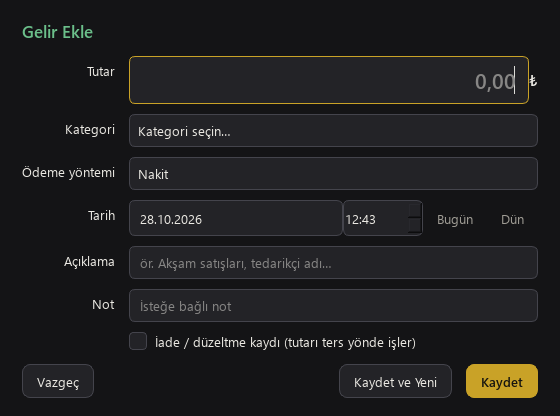
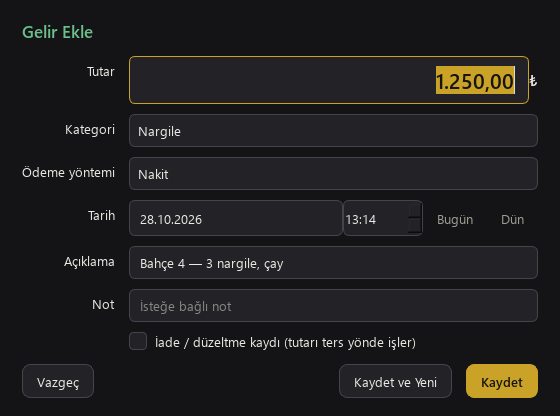
Personel listesi: Durum sütunu kesilmesin; README ekran görüntüleri güncellendi

diff --git a/kasaos/ui/pages/personnel.py b/kasaos/ui/pages/personnel.py
@@ -504,8 +504,7 @@ class PersonnelPage(Page):
         self.list.setRowCount(0)
         for e in shown:
             text, color = _balance_text(e.balance)
-            role = " · ".join(x for x in (e.role, e.wage_text) if x)
-            _row(self.list, [e.name + ("" if e.active else " (ayrıldı)"), role, text], {2: color})
+            _row(self.list, [e.name + ("" if e.active else " (ayrıldı)"), e.role, text], {2: color})
         idx = next((i for i, e in enumerate(shown) if e.id == selected), -1)
         if idx >= 0:
             self.list.selectRow(idx)
